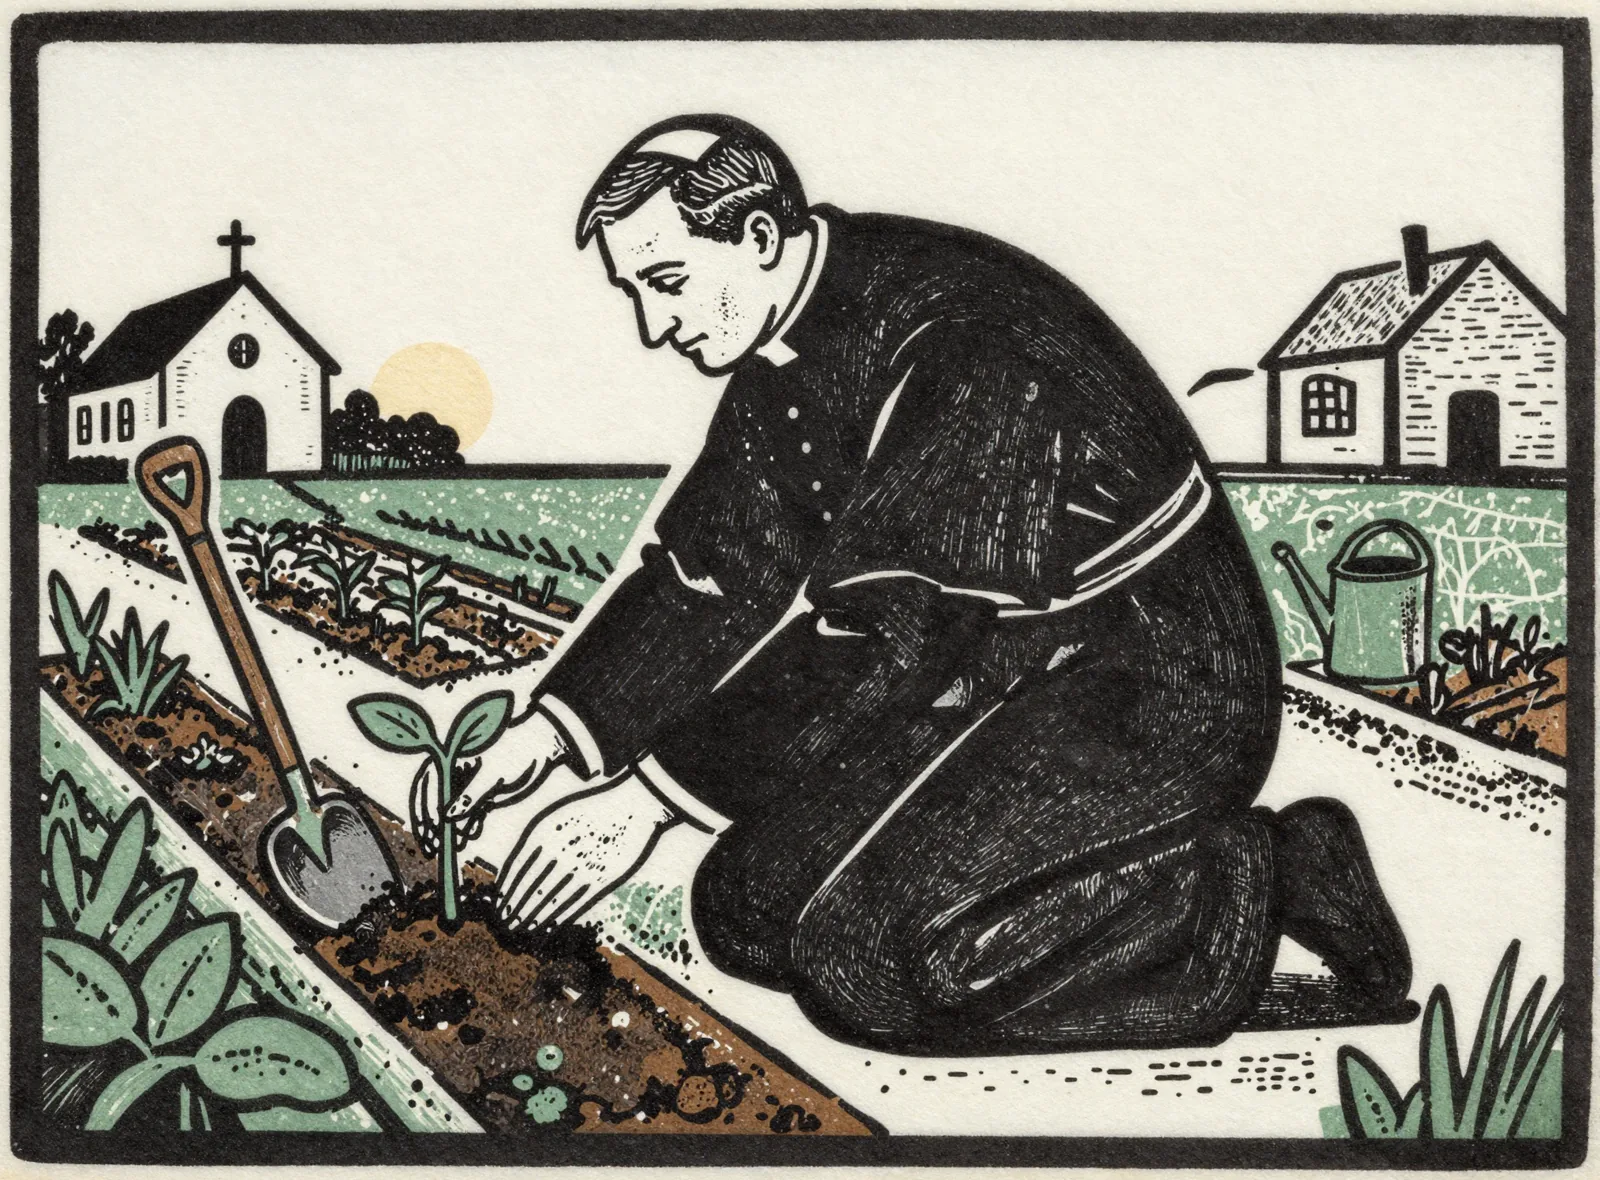
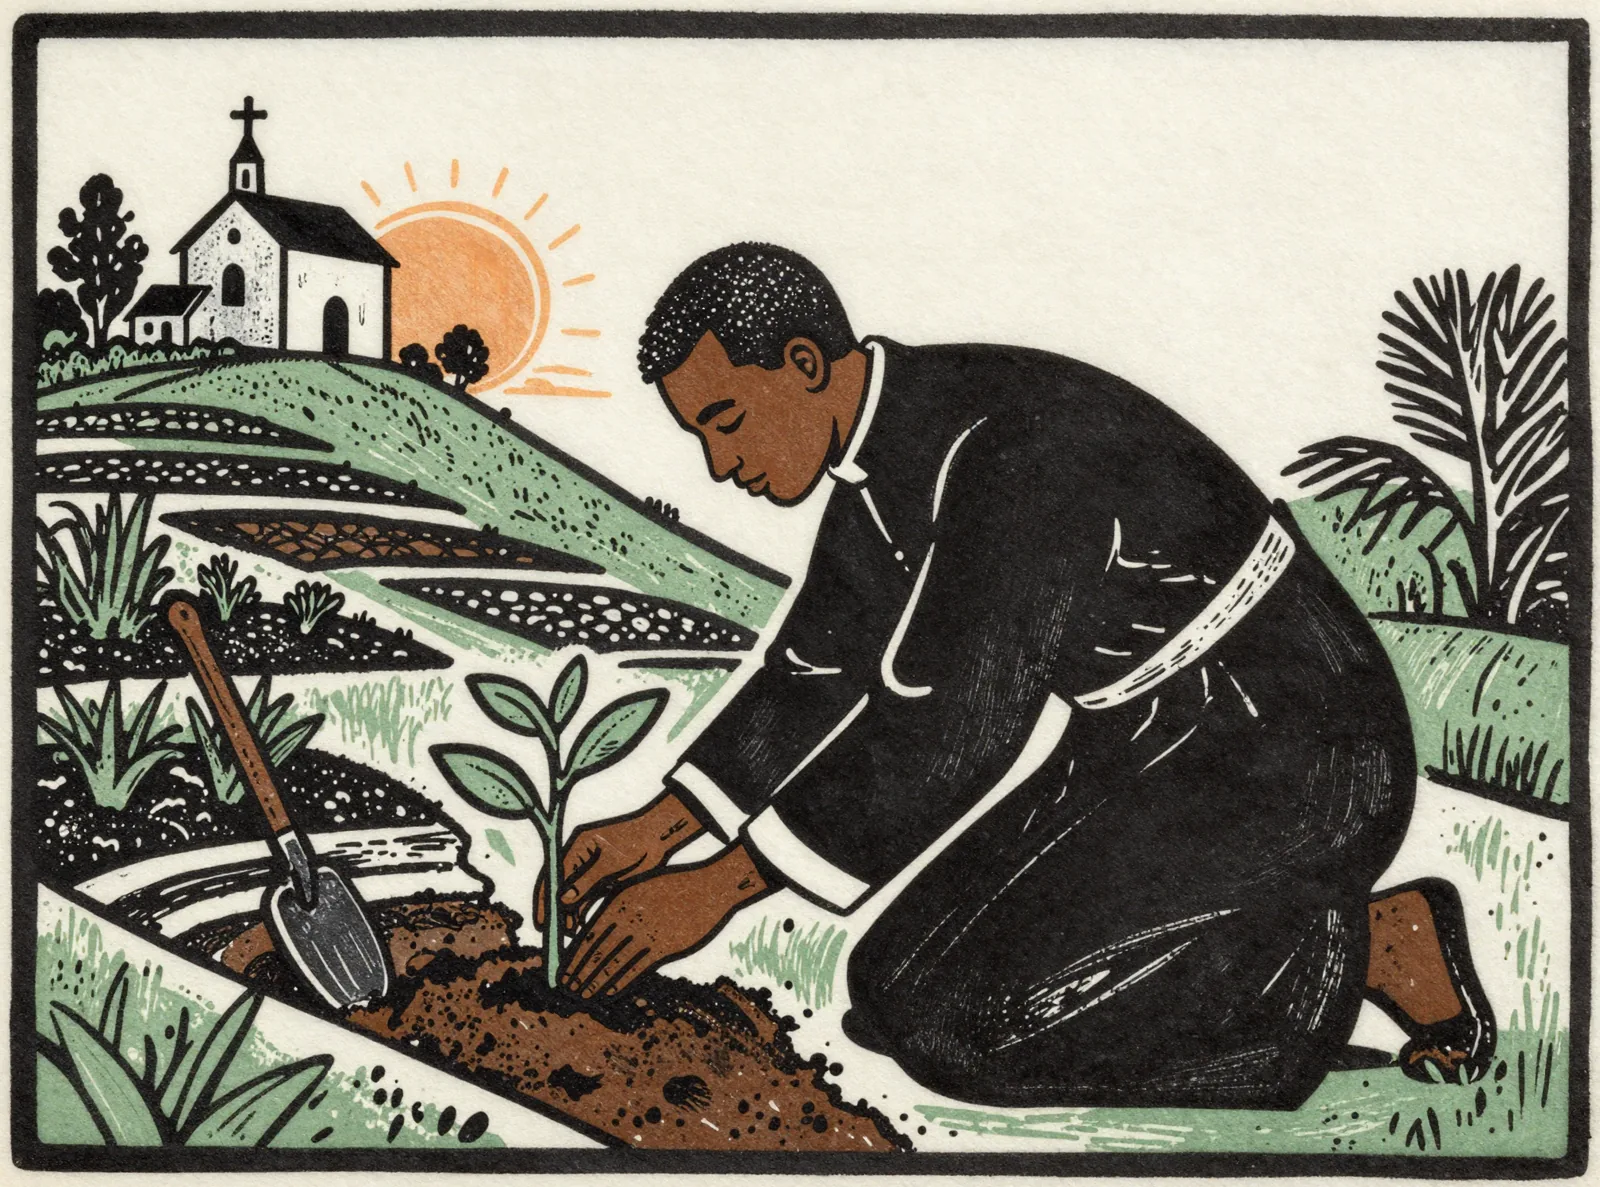
feat(design): the priest on the hillside; the lake rerolled clean
His three flags, all landed. The plank surgery glitched, so the lake
was rerolled fresh with the boat afloat written into the prompt and
his close-cottage composition kept. The hill idea returns, now earned:
a Black priest kneels on the terraced hillside garden at dawn,
planting with his own hands, the sun rising behind the church at the
crest — made as a sacred image, four rolls, face verified at zoom.
His standing rule is recorded in the brain: white is not the default
for figures in this parish's art.

diff --git a/templates/illustrations/_priest.html b/templates/illustrations/_priest.html
@@ -1,10 +1,10 @@
 {% comment %}Parish Linocut — original UMI illustration, by the founder's key
-   and made as a sacred image. The deed before the word: a priest kneels in
-   the community garden at dawn, planting a seedling with his own hands, the
-   spade standing in the earth and the parish church behind him. Work as
+   and made as a sacred image. The deed before the word: a Black priest kneels
+   on the terraced hillside garden at dawn, planting a seedling with his own
+   hands, the sun rising behind the parish church at the crest. Work as
    prayer. Two-plate relief print in the Commons palette, generated suite
    2026-07-14. Decorative.{% endcomment %}
 {% load static %}
 <img src="{% static 'img/scenes/priest.webp' %}" data-scene="priest" alt=""
-     class="{{ class|default:'w-full h-auto' }}" width="1600" height="1180"
+     class="{{ class|default:'w-full h-auto' }}" width="1600" height="1187"
      decoding="async">

diff --git a/templates/illustrations/_lakes.html b/templates/illustrations/_lakes.html
@@ -1,10 +1,10 @@
 {% comment %}Parish Linocut — original UMI illustration. The first lake — water
    close to home. A stone cottage at the shore, the jetty with its creel,
-   a rowboat on the water, and the lake running on toward more beyond. The lakes
+   a rowboat afloat beside it, and the lake running on toward more beyond. The lakes
    named, finally pictured. Two-plate relief print in the Commons palette
    (stone paper, espresso ink, evergreen + bronze), generated suite
    2026-07-14. Decorative.{% endcomment %}
 {% load static %}
 <img src="{% static 'img/scenes/lakes.webp' %}" data-scene="lakes" alt=""
-     class="{{ class|default:'w-full h-auto' }}" width="1600" height="1162"
+     class="{{ class|default:'w-full h-auto' }}" width="1600" height="1139"
      decoding="async">

diff --git a/STATE.md b/STATE.md
@@ -90,7 +90,7 @@
 Do not assume/reintroduce: Stripe billing, Twilio SMS, Chart.js dashboards, blog, scheduled email digests (only an `email_digest` config key), account-deletion flow, **in-app chat** (deliberate — see Protocol section), REST/DRF API (federation speaks its own signed endpoints). (Service worker exists **only** for casework offline capture — not a site-wide PWA.)
 
 ## Repo state / open items
-- **In-flight (`fix/beliefs-heart`, 2026-07-14):** beliefs opening rebuilt in the Our-Story register on his flag ("this whole part sucks… completely different tone") — v3 on his second pass: concrete-first masthead ("This board is a lake, the first of many."), lake defined in one sentence, sayings resolved to two plain clauses, widow/doorway litany scratched entirely ("A conviction you can act on."), realism scan of ALL prints on his flag (spring had reeds-from-rock; exchange had a paw-hand; carrying had a fake AI signature) — exchange re-rolled clean, carrying signature patched out, spring retired unplaced, NEW lakes print (cottage/jetty/first-of-many) matches v3 copy. Product name unified to Reciprocal Aid Network everywhere user-facing (his canon: UMI = infrastructure, Lake 0 at heart); chapter cards de-dashed; header fixed at 390 for the longer name (output.css recompiled). Then his keys kept coming, all executed: lakes print restored to composition A with only the boat moved onto the water (plank-clone + silhouette splice, no re-roll); hill print retired (his flag: rough-draft leftover, context unclear) and replaced by a SACRED priest-in-the-garden print (his key: figure, full effort — 4 rolls, dignified profile pick). Unplaced suite prints now: widow, spring, hill. Gate pending, then his standing merge key.
+- **In-flight (`fix/beliefs-heart`, 2026-07-14):** beliefs opening rebuilt in the Our-Story register on his flag ("this whole part sucks… completely different tone") — v3 on his second pass: concrete-first masthead ("This board is a lake, the first of many."), lake defined in one sentence, sayings resolved to two plain clauses, widow/doorway litany scratched entirely ("A conviction you can act on."), realism scan of ALL prints on his flag (spring had reeds-from-rock; exchange had a paw-hand; carrying had a fake AI signature) — exchange re-rolled clean, carrying signature patched out, spring retired unplaced, NEW lakes print (cottage/jetty/first-of-many) matches v3 copy. Product name unified to Reciprocal Aid Network everywhere user-facing (his canon: UMI = infrastructure, Lake 0 at heart); chapter cards de-dashed; header fixed at 390 for the longer name (output.css recompiled). Then his keys kept coming, all executed: lakes print restored to composition A with only the boat moved onto the water (plank-clone + silhouette splice, no re-roll); hill print retired (his flag: rough-draft leftover, context unclear) and replaced by a SACRED priest-in-the-garden print (his key: figure, full effort — 4 rolls, dignified profile pick). Unplaced suite prints now: widow, spring, hill. Round 2 on his flags: lakes re-rolled fresh (plank surgery glitched; boat afloat baked into the prompt, his close-cottage composition kept); hill IDEA returned merged with the priest (Black priest on the terraced hillside, sacred, 4 rolls, zoom-verified) — his standing representation rule recorded in voice.md §Imagery (white is not the default). Gate pending, then his standing merge key.
 - **Consent-voice MERGED `2bbe17a` (his key 2026-07-14):** triage 1–14 all confirmed shipped; consent FILLED state speaks parish (scope tokens → words, Stop sharing, honest footnote); gallery recaptured under real `DEBUG=0` conditions (recipe verified live). Gate was PASS 858.
 - **Demo-polish MERGED `fc7f7e5` (his key 2026-07-14):** the Father Mac pass — `seed_demo_parish` (fictional St. Brigid's, DEBUG-only, 3 tests), 38-screen triage (`docs/demo-triage-2026-07-14.md`), app-wide spoken copy (72 em-dash rewrites + sentence-case sweep), swatch defaults, warm 403 + human 500 + DEBUG env toggle, `docs/demo-walkthrough.md` (8-screen golden path). Gate was PASS 858.
 - **Spoken-flow copy MERGED `ce56d1b` (his standing key 2026-07-14):** mission copy passes the say-it-aloud test — contractions back, comma-chains broken into spoken sentences (impeccable clarify). Say-aloud rule = master formatting rule in brain voice.md. Gate was PASS 855. Branch deleted.

diff --git a/CHANGELOG.md b/CHANGELOG.md
@@ -7,9 +7,9 @@
 
 - **One name everywhere: Reciprocal Aid Network.** The app stopped switching between
   its old names. UMI stays as the infrastructure it's all built on.
-- **The garden has its priest** — where the page says the deed comes first, a priest
-  now kneels in the community garden at dawn, planting with his own hands, the church
-  behind him. Made carefully, as a sacred image.
+- **The hillside has its priest** — where the page says the deed comes first, a priest
+  kneels on the terraced hillside at dawn, planting with his own hands, the sun rising
+  behind the church at the crest. Made carefully, as a sacred image.
 - **Pictures checked for truth** — every scene was scanned for realism. The giving-hands
   print was redrawn, a stray artist's scribble came out of the basket scene, and the
   beliefs page now shows the first lake itself: water close to home.
